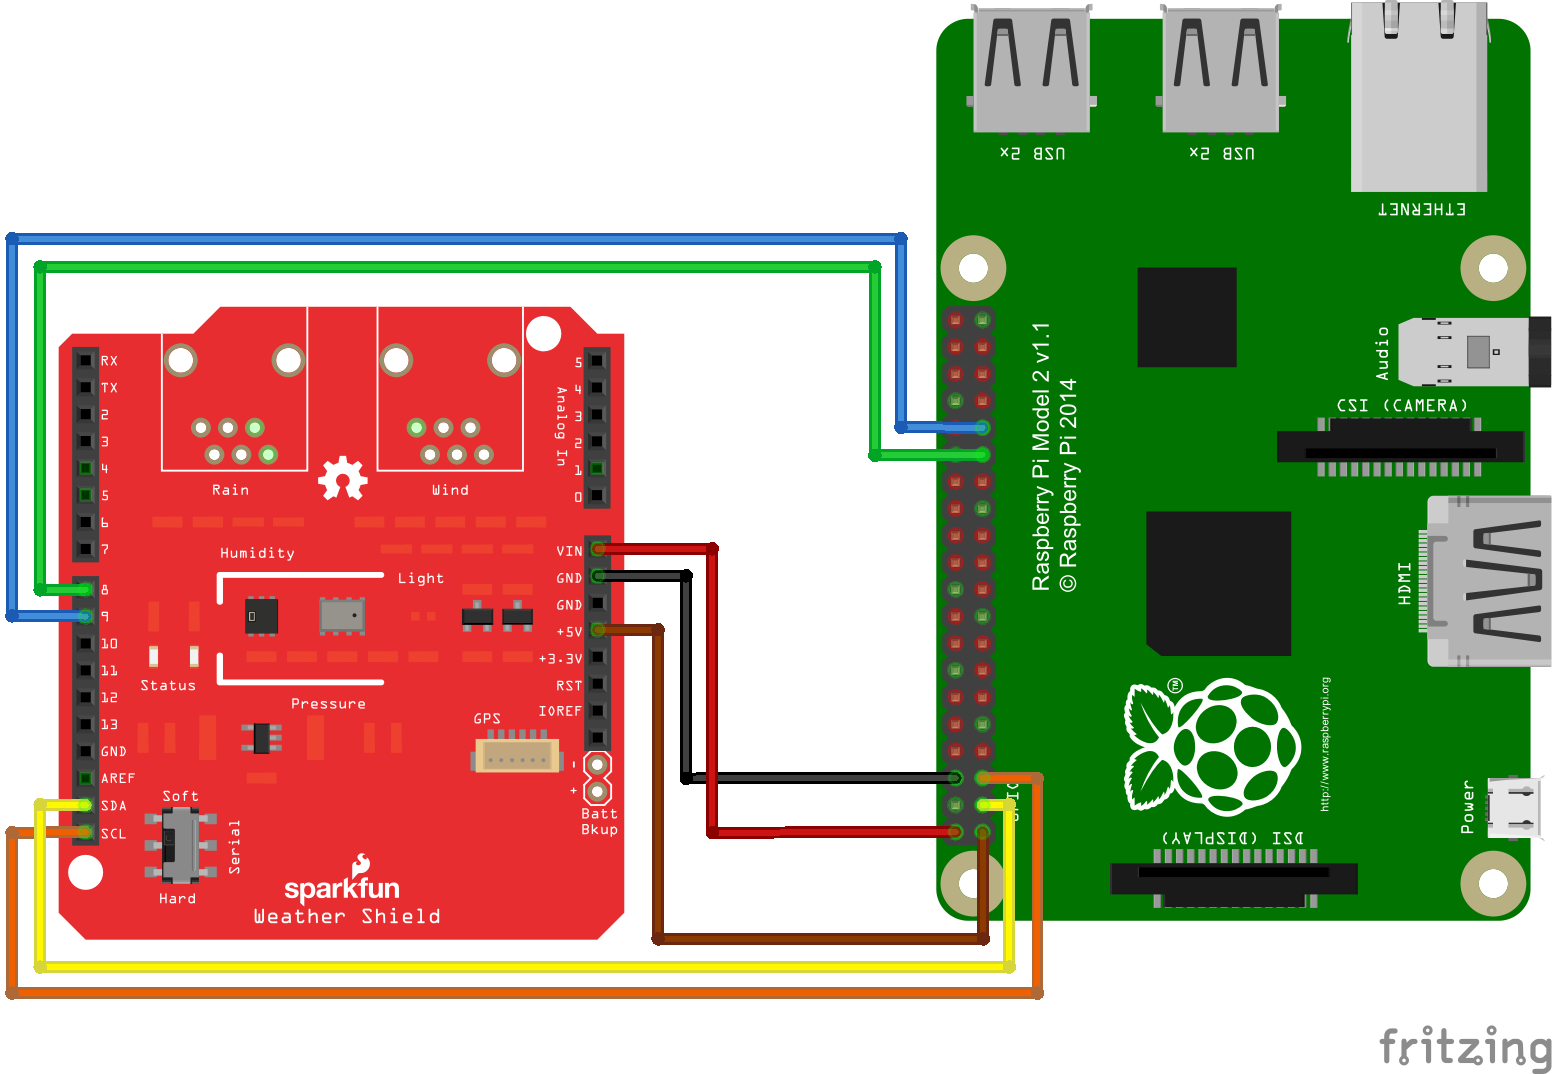
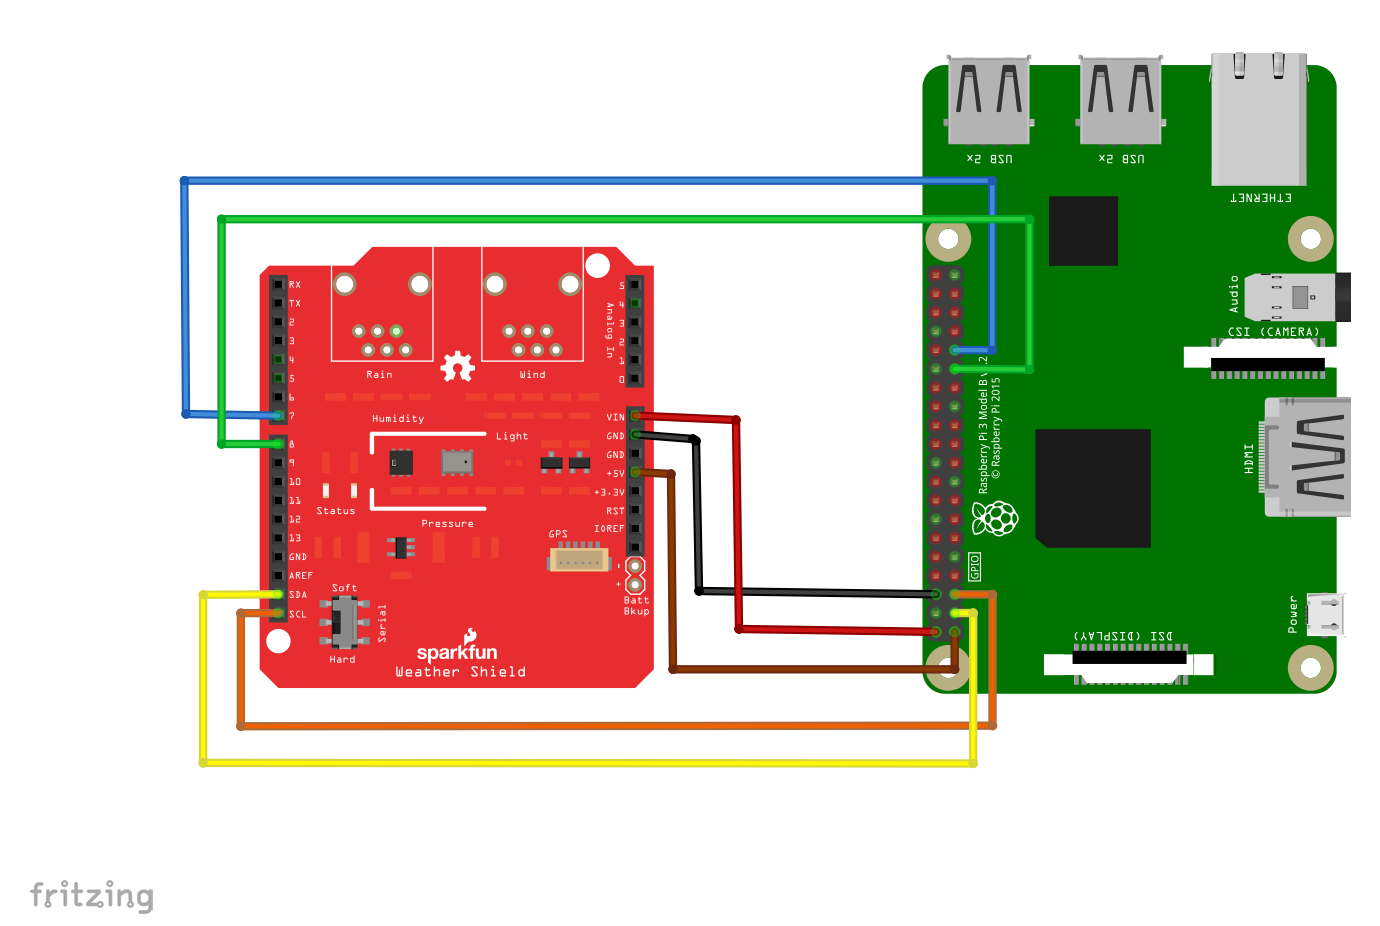
Weather Station Bug

diff --git a/en-US/Samples/arduino-wiring/WeatherStation.md b/en-US/Samples/arduino-wiring/WeatherStation.md
@@ -4,38 +4,47 @@ title: Arduino Wiring weather station
 description: Deploy and debug an Arduino Wiring sketch to control a stepper motor
 keyword: Windows 10 IoT Core, wiring, arduino
 permalink: /en-US/Samples/arduino-wiring/WeatherStation.htm
-samplelink: N/A
+samplelink: https://github.com/turkycat/Weather_Shield
 lang: en-US
 ---
 
-# Weather Station + Lightning
+# Weather Station (Arduino Wiring) + Lightning Provider 
 
-Learn how to create an Arduino Wiring sketch on Raspberry Pi 2 or 3 and set up your own Weather Station using the power of Lightning.  Gathering weather data from your surroundings is as easy as connecting a [Sparkfun Weather Shield](https://www.sparkfun.com/products/12081) to your Raspberry Pi 2 or 3 and deploying a UWP app. This shield mainly utilizes two sensors, the [HTU21D Humidity and Temperature Sensor](https://www.sparkfun.com/products/12064) and the [MPL3115A2 Altitude/Pressure Sensor](https://www.sparkfun.com/products/11084), but is also expandable to read wind and rain levels. You can replicate this entire project with the shield itself or with the individual sensors.
+Learn how to create an Arduino Wiring sketch on Raspberry Pi 2 or 3 and set up your own Weather Station using the power of Lightning. 
+
+Gathering weather data from your surroundings is as easy as connecting a [Sparkfun Weather Shield](https://www.sparkfun.com/products/12081) to your Raspberry Pi 2 or 3 and deploying a UWP app. This shield mainly utilizes two sensors, the [HTU21D Humidity and Temperature Sensor](https://www.sparkfun.com/products/12064) and the [MPL3115A2 Altitude/Pressure Sensor](https://www.sparkfun.com/products/11084), but is also expandable to read wind and rain levels.
+
+You can replicate this entire project with the shield itself or with the individual sensors.
 
 Read on to get started!
 
 ## Hardware Set Up
 
-<div class="row">
-  <p>
-    The first step is to hook your Raspberry Pi 2 or 3 up to the Sparkfun Weather Shield.  Use the wiring diagram and photos in the carousel below for reference. <i> Note: This feature requires JavaScript.  If you are experiencing problems with the carousel, make sure that JavaScript is enabled on your browser. </i> You can also refer to the fritzing diagram below the reference images.
-  </p>
-  <div class="col-md-6 col-sm-12">
-    <div class="floatTop">
-    Pinout Diagram (Raspberry Pi 2 or 3 --> Sparkfun weather shield):
-      <ul>
-        <li> GND-------(black)------GND </li>
-        <li> 5V----------(red)---------VIN </li>
-        <li> 3V3-------(brown)------5V (shield hack; not a typo) </li>
-        <li> GPIO2-----(yellow)----SDA </li>
-        <li> GPIO3----(orange)----SCL </li>
-        <li> GPIO5-----(green)-----D8 </li>
-        <li> GPIO6-----(blue)-------D7 </li>
-      </ul>
-    </div>
-  </div>
+The first step is to hook your Raspberry Pi 2 or 3 up to the Sparkfun Weather Shield.  Use the wiring diagram and photos in the carousel below for reference. 
 
-  <div class="col-md-6 col-sm-12">
+<i> Note: This feature requires JavaScript.  If you are experiencing problems with the carousel, make sure that JavaScript is enabled on your browser. </i> 
+
+You can also refer to the fritzing diagram below the reference images.
+  
+ 
+### Pinout Diagram (Raspberry Pi 2 or 3 --> Sparkfun weather shield):
+_______
+     
+        GND--------(black)-------GND 
+
+        5V----------(red)--------VIN
+		 
+        3V3--------(brown)-------5V (shield hack; not a typo) 
+
+        GPIO2------(yellow)------SDA 
+
+        GPIO3------(orange)------SCL 
+
+        GPIO5-------(green)-------D8 
+
+        GPIO6--------(blue)-------D7 
+    
+ <div class="container-fluid">
     <div id="carousel" data-interval="false" class="carousel slide" data-ride="carousel">
       <ol class="carousel-indicators">
         <li data-target="#carousel" data-slide-to="0" class="active"></li>
@@ -46,23 +55,20 @@ Read on to get started!
       </ol>
 
       <div class="carousel-inner" role="listbox">
-      <div class="item active">
-          <img src="{{site.baseurl}}/Resources/images/PinMappings/RP2_Pinout.png">
-          <div class="carousel-caption">
-            Rasberry Pi 2 and 3 GPIO Schematic
-          </div>
-        </div>
+		<div class="item active">
+			<img src="{{site.baseurl}}/Resources/images/PinMappings/RP2_Pinout.png">       
+		 </div>
         <div class="item">
           <img src="{{site.baseurl}}/Resources/images/Lightning/Wiring_RasPi2_inside.jpeg">
-          <div class="carousel-caption">
-            Raspberry Pi 2 or 3 Wiring Diagram (Inside)
-          </div>
+			  <div class="carousel-caption">
+				Raspberry Pi 2 or 3 Wiring Diagram (Inside)
+			  </div>
         </div>
         <div class="item">
           <img src="{{site.baseurl}}/Resources/images/Lightning/Wiring_RasPi2_outside.jpeg">
-          <div class="carousel-caption">
-            Raspberry Pi 2 or 3 Wiring Diagram (Outside)
-          </div>
+			  <div class="carousel-caption ">
+				Raspberry Pi 2 or 3 Wiring Diagram (Outside)
+			  </div>
         </div>
         <div class="item">
           <img src="{{site.baseurl}}/Resources/images/Lightning/Wiring_WeatherShield_LeftRail.jpeg" >
@@ -72,7 +78,7 @@ Read on to get started!
         </div>
         <div class="item">
           <img src="{{site.baseurl}}/Resources/images/Lightning/Wiring_WeatherShield_RightRail.jpeg" >
-          <div class="carousel-caption">
+          <div class="carousel-caption ">
             Weather Shield (Right Rail)
           </div>
         </div>
@@ -88,13 +94,15 @@ Read on to get started!
       </a>
     </div>
   </div>
-</div>
 
 ### Fritzing Diagram
+____
 
 ![RPI Pinouts]({{site.baseurl}}/Resources/images/arduino_wiring/pi2_weathershield.png)
 
 ## Software Set Up
+
+Enable Lightning on your Raspberry Pi2 or 3 device using the the steps outlined in the [Lightning Setup Guide]({{site.baseurl}}/{{page.lang}}/Docs/LightningSetup.htm).
 
 There are two ways to go about seting up the software.
 

diff --git a/en-US/Samples/WeatherStationLightning.md b/en-US/Samples/WeatherStationLightning.md
@@ -1,22 +1,22 @@
 ---
 layout: sample
-title: Weather station
+title: Weather station Lightning Sample
 permalink: /en-US/Samples/WeatherStationLightning.htm
 keyword: Windows 10 IoT Core, beginner, breadboard, potentiometer, sensor, weather station
 description: Communicate with an I2C sensor using Lightning I2c provider
-samplelink: https://github.com/ms-iot/samples/tree/develop/WeatherStation/CS/WeatherStation
+samplelink: https://github.com/ms-iot/BusProviders/tree/develop/Microsoft.IoT.Lightning.Providers
 lang: en-US
 ---
 
-# Weather station
+# Weather station using Lightning Providers
 
-This sample demonstrates how to communicate with an I2c device using the Micorosot.IoT.Providers.Lightning.I2cProvider
+This sample demonstrates how to communicate with an I2c device using the Micorosot.IoT.Providers.Lightning.I2cProvider.
 
-It's based on the WeatherShield sample shared on [GitHub](https://github.com/ms-iot/samples/tree/develop/WeatherStation/CS/WeatherStation) and shares the same setup steps and most of the code. The only difference is how the sensor device is initialized in each.
+It is based on the Weather Station sample discussed [here](https://developer.microsoft.com/en-us/windows/iot/samples/arduino-wiring/weatherstation) and shares the same setup steps and most of the code. 
 
-### Using Lightning Provider
+### Using Default Provider
 
-The original sample used the default I2C provider for obtaining the I2C sensor device follows:
+The original sample used the default I2C provider for obtaining the I2C sensor device as follows:
 
 {% highlight C# %}
 
@@ -36,6 +36,10 @@ public async void Run(IBackgroundTaskInstance taskInstance)
     timer = ThreadPoolTimer.CreatePeriodicTimer(Timer_Tick, TimeSpan.FromMilliseconds(1000));
 }
 {% endhighlight %}
+
+The sample code using the default I2C provider can be found [here](https://github.com/ms-iot/samples/tree/develop/WeatherStation).
+
+### Using Lightning Provider
 
 Now, to enable the use of the Lightning provider, the I2C initialization code needs to be modified to set the Lightning provider as the default provider.
 
@@ -74,9 +78,11 @@ public async void Run(IBackgroundTaskInstance taskInstance)
 
 1. Clone the source for the WeatherStation sample for Lightning from [Github](https://github.com/ms-iot/BusProviders/tree/develop/Microsoft.IoT.Lightning.Providers) to a local folder.
 
-1. To setup the connections between the device and the weather shield, refer to the original [build lab](https://www.hackster.io/windowsiot/build-hands-on-lab-iot-weather-station-using-windows-10).
+1. To setup the connections between the device and the weather shield, refer to the original [sample](https://developer.microsoft.com/en-us/windows/iot/samples/arduino-wiring/weatherstation).
 
 1. Load the solution in Visual Studio.
+
+1. Select "Weather Station (Universal Windows)" as the Startup Project.
 
 1. Build the app.
 
